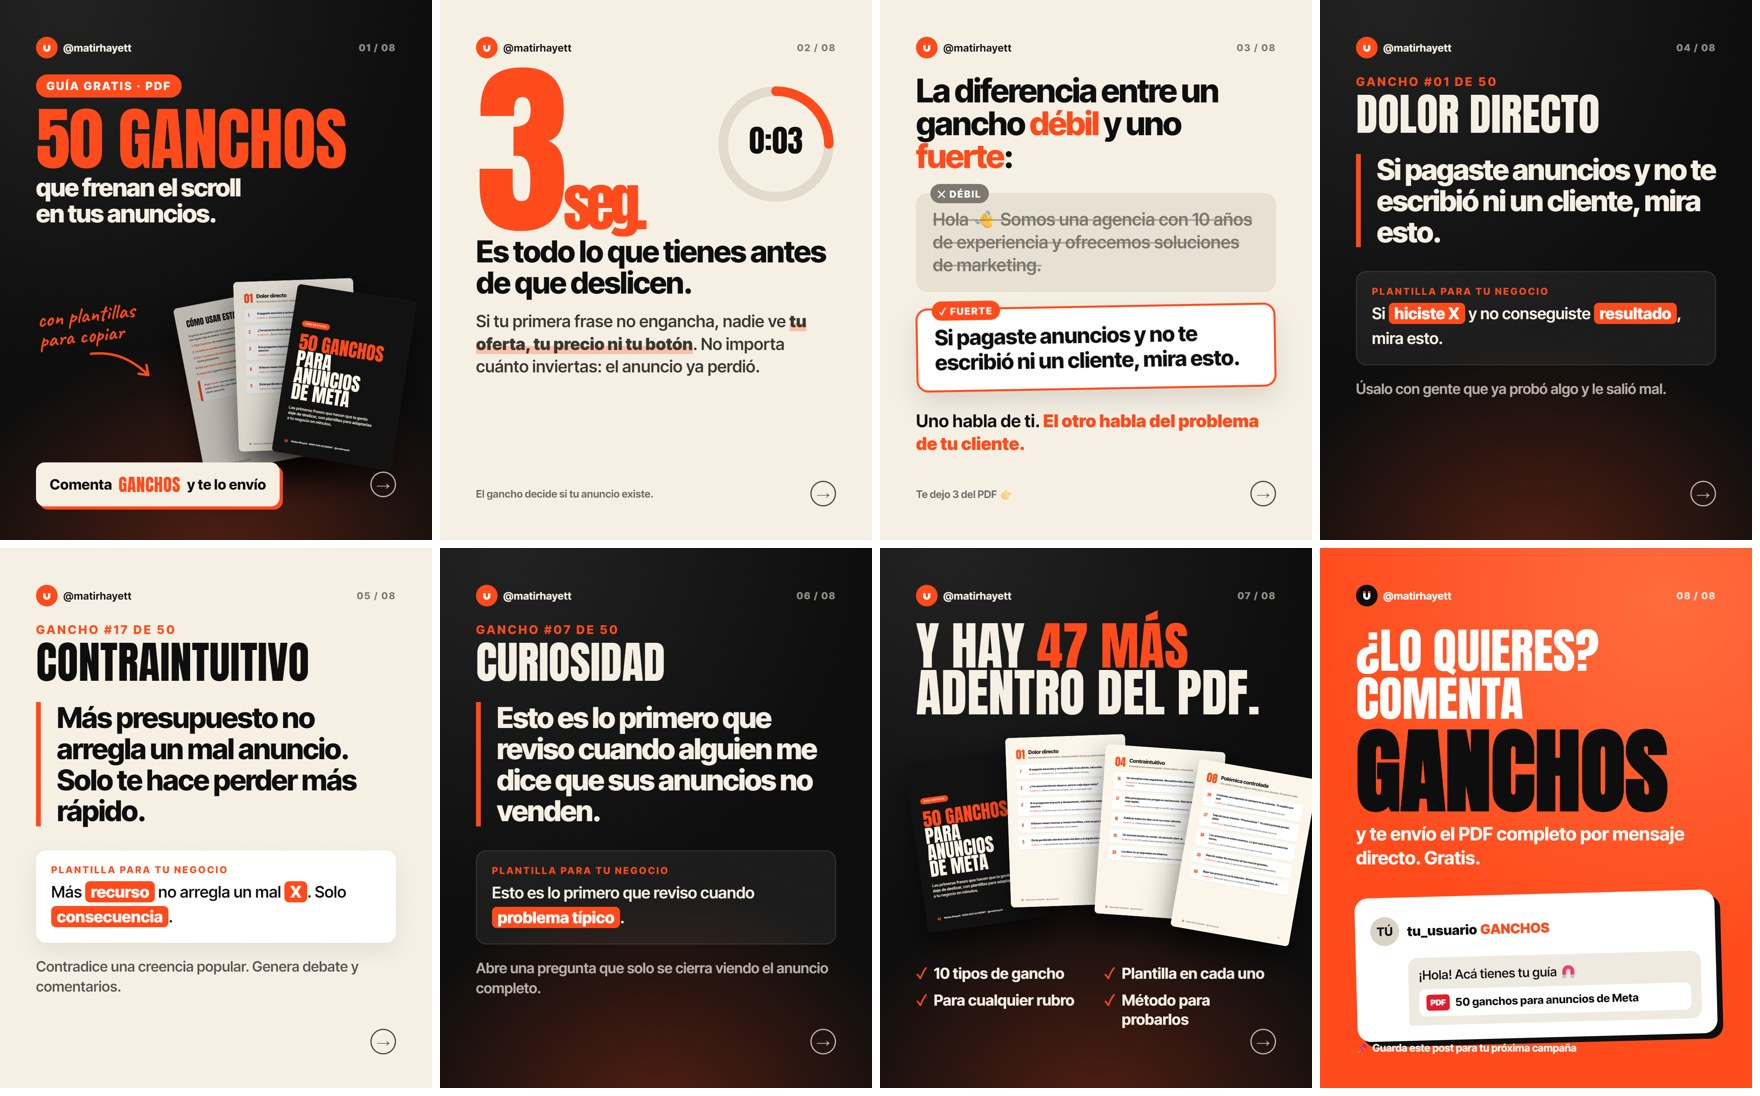
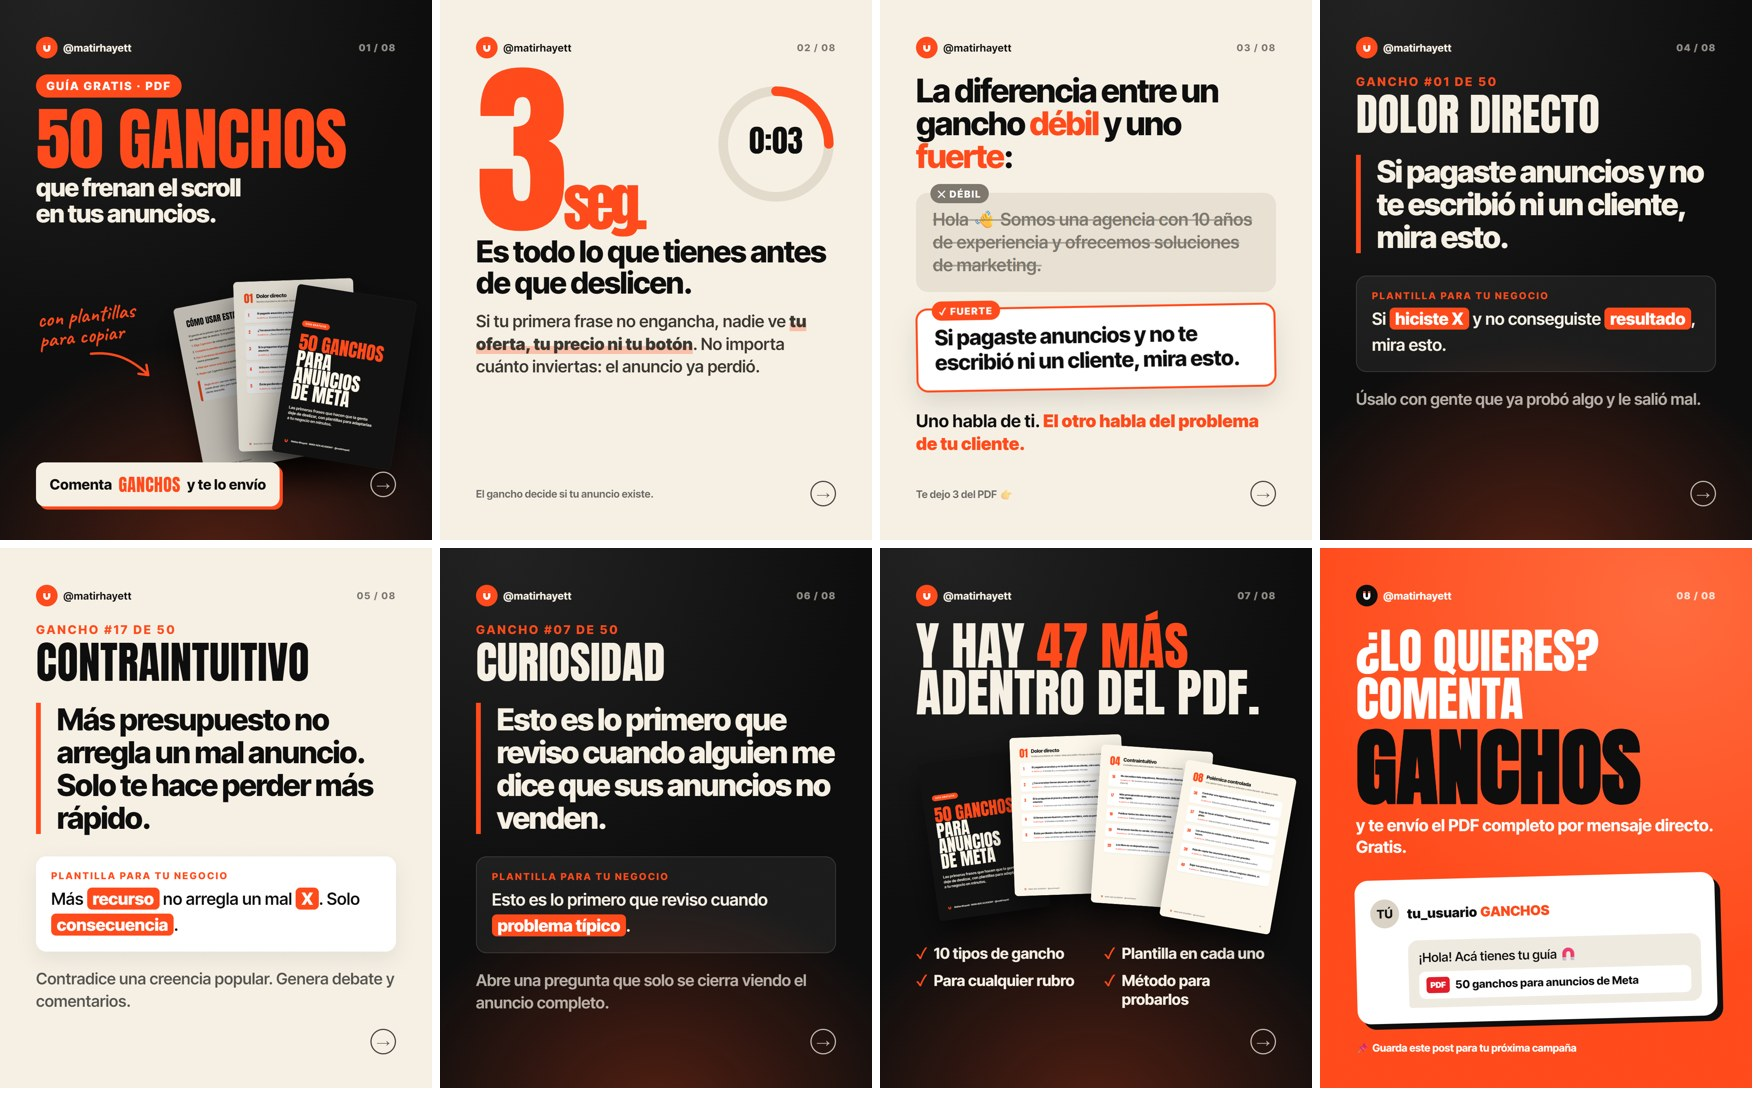
Ajustes de diseño en el carrusel de lanzamiento

diff --git a/especiales/lanzamiento-ganchos.html b/especiales/lanzamiento-ganchos.html
@@ -108,6 +108,17 @@ body { background: #333; font-family: "Inter Tight", sans-serif; }
 .p1 .nota { left: 100px; top: 760px; bottom: auto; }
 .p8 .grande { line-height: 1; }
 .p8 .grande b { margin-top: 18px; line-height: .9; }
+
+/* revisión */
+.mesa { height: 500px; }
+.mesa img { width: 280px; }
+.m1 { left: 30px; } .m2 { left: 240px; } .m3 { left: 450px; } .m4 { left: 640px; }
+.p8 .grande b { font-size: 210px; }
+.chat { margin-top: 46px; margin-bottom: 50px; }
+.cita { font-size: 76px; }
+.gancho-cat { margin-bottom: 52px; }
+.plantilla { margin-top: 56px; font-size: 42px; }
+.cuando { font-size: 40px; margin-top: 40px; }
 </style></head><body>
 
 <!-- 1 · PORTADA -->
